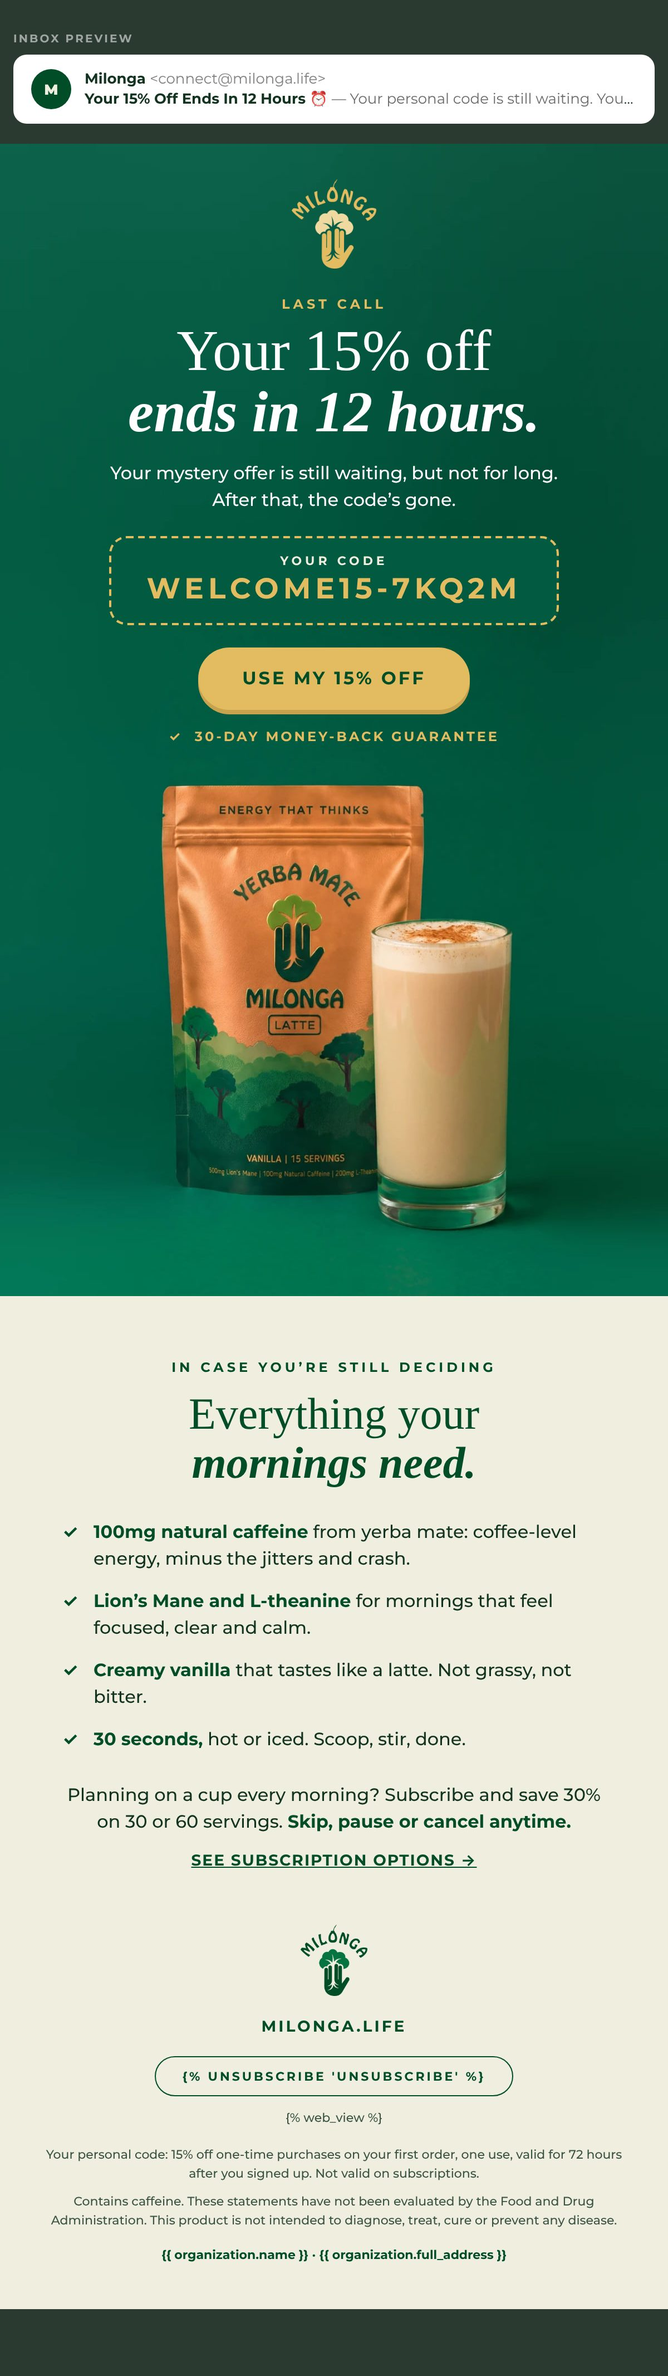
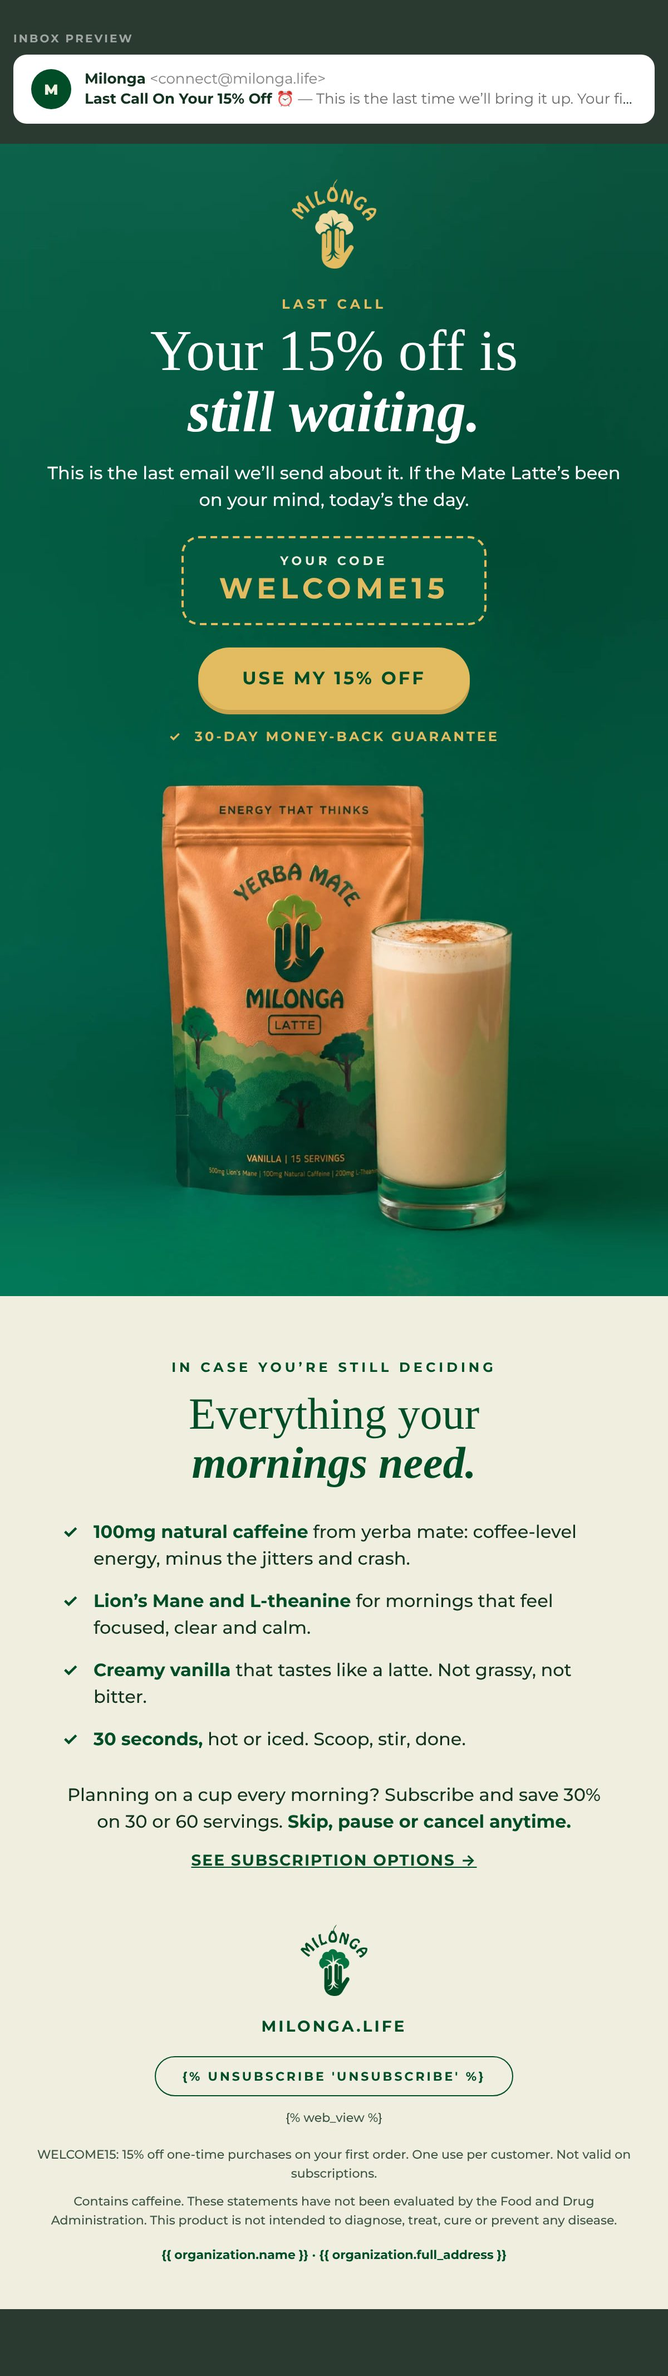
Welcome flow E3: images on Klaviyo's CDN, paste-ready HTML, README
Claude-Session: https://claude.ai/code/session_01NhEtXPnfeCJfN73SqBkUZ5

diff --git a/email-ds/exports/klaviyo/welcome-e3/welcome-e3.html b/email-ds/exports/klaviyo/welcome-e3/welcome-e3.html
@@ -1,6 +1,7 @@
 <!--
-  WELCOME FLOW · EMAIL 3 · DAY 3 · "Your 15% Is Still Waiting ☕"
-  Preview text: Same morning, better cup. Your code still works whenever you’re ready.
+  WELCOME FLOW · EMAIL 3 · "Last Call On Your 15% Off ⏰"
+  Preview text: This is the last time we’ll bring it up. Your first cup is still 15% off.
+  Send: day 3 after signup. WELCOME15 has no end date, so nothing here claims one.
   GENERATED by scripts/make-welcome-e3.mjs. Edit the script, not this file.
   Paste the whole file into one Klaviyo HTML block.
 -->
@@ -14,101 +15,70 @@
   @media only screen and (max-width:480px) {
     .wrap { width:100% !important; }
     .pad { padding-left:24px !important; padding-right:24px !important; }
-    .h-hero { font-size:44px !important; line-height:46px !important; }
-    .h-sec { font-size:34px !important; line-height:38px !important; }
-    .code { font-size:24px !important; letter-spacing:4px !important; }
-    .btn { padding:19px 28px !important; }
-    .cmp { font-size:15px !important; line-height:20px !important; padding:12px 12px !important; }
+    .hero-in { padding:24px 20px 0 !important; }
+    .hero-logo { width:68px !important; height:72px !important; }
+    .h-hero { font-size:46px !important; line-height:48px !important; }
+    .h-sec { font-size:32px !important; line-height:36px !important; }
+    .code { font-size:20px !important; letter-spacing:2px !important; }
+    .code-tag { padding:12px 20px 14px !important; }
+    .btn { padding:18px 26px !important; font-size:15px !important; letter-spacing:1.2px !important; }
   }
   @media (prefers-color-scheme: dark) {
+    .bg-hero { background-color:#025A41 !important; }
     .bg-page { background-color:#F0EFDF !important; }
-    .bg-band { background-color:#004D27 !important; }
   }
 </style>
 <table role="presentation" width="100%" cellpadding="0" cellspacing="0" border="0" bgcolor="#F0EFDF" class="bg-page" style="background-color:#F0EFDF;">
 <tr><td align="center">
 <table role="presentation" class="wrap" width="600" cellpadding="0" cellspacing="0" border="0" style="width:600px;max-width:600px;">
 
-<!-- ── 1 · THE REMINDER (beige) ─────────────────────────────────────── -->
-<tr><td class="pad bg-page" align="center" bgcolor="#F0EFDF" style="background-color:#F0EFDF;padding:36px 40px 0;font-family:'Montserrat','Helvetica Neue',Helvetica,Arial,sans-serif;color:#004D27;">
-<a href="https://milonga.life/?utm_source=klaviyo&amp;utm_medium=email&amp;utm_campaign=welcome_mystery_offer&amp;utm_content=e3_logo" target="_blank"><img src="https://cdn.klaviyomail.com/company/TwvSnK/images/b6a03046-605a-4e87-b22f-a530be1633e3.png" width="57" height="60" alt="Milonga" style="display:block;margin:0 auto;width:57px;height:60px;border:0;"></a>
-<div style="padding-top:28px;font-size:12px;line-height:16px;font-weight:700;letter-spacing:3px;text-transform:uppercase;color:#004D27;">Still thinking about it?</div>
-<div class="h-hero" style="padding-top:10px;font-family:'Times New Roman',Times,Georgia,serif;font-size:56px;line-height:56px;font-weight:400;color:#004D27;">Your 15% is</div>
-<div class="h-hero" style="font-family:'Times New Roman',Times,Georgia,serif;font-size:56px;line-height:60px;font-weight:700;font-style:italic;color:#004D27;">still waiting.</div>
-<div style="padding-top:14px;font-size:16px;line-height:24px;font-weight:500;color:#12331F;">Your code WELCOME15 still takes 15% off your first order. Here&rsquo;s what tomorrow morning could look&nbsp;like.</div>
-</td></tr>
-<tr><td class="pad bg-page" align="center" bgcolor="#F0EFDF" style="background-color:#F0EFDF;padding:28px 24px 0;">
-<a href="https://milonga.life/discount/WELCOME15?redirect=%2Fproducts%2Fthe-original-mate-latte&amp;utm_source=klaviyo&amp;utm_medium=email&amp;utm_campaign=welcome_mystery_offer&amp;utm_content=e3_photo" target="_blank"><img src="https://cdn.klaviyomail.com/company/TwvSnK/images/0dafca6c-f6a4-4ea9-a23e-44c52594e9c5.jpeg" width="552" alt="A pouch of Milonga Mate Latte on a sunny kitchen counter with a hot Mate Latte in a ceramic cup, an iced one in a tall glass and a scoop of the powder." style="display:block;width:100%;max-width:552px;height:auto;border:0;border-radius:24px;"></a>
-</td></tr>
-
-<!-- ── 2 · SAME MORNING, BETTER CUP (forest band) ───────────────────── -->
-<tr><td class="bg-page" bgcolor="#F0EFDF" style="background-color:#F0EFDF;height:56px;line-height:56px;font-size:0;">&nbsp;</td></tr>
-<tr><td class="pad bg-band" align="center" bgcolor="#004D27" style="background-color:#004D27;padding:56px 40px 56px;font-family:'Montserrat','Helvetica Neue',Helvetica,Arial,sans-serif;">
-<div style="font-size:12px;line-height:16px;font-weight:700;letter-spacing:3px;text-transform:uppercase;color:#E3BC62;">Mate Latte vs your usual coffee</div>
-<div class="h-sec" style="padding-top:12px;font-family:'Times New Roman',Times,Georgia,serif;font-size:40px;line-height:44px;font-weight:400;color:#FFFFFF;">Same morning,</div>
-<div class="h-sec" style="font-family:'Times New Roman',Times,Georgia,serif;font-size:40px;line-height:46px;font-weight:700;font-style:italic;color:#FFFFFF;">better cup.</div>
-<div style="padding-top:32px;">
-<table role="presentation" width="100%" cellpadding="0" cellspacing="0" border="0" style="border-collapse:separate;">
-<tr>
-<td width="49%" align="center" style="width:49%;padding-bottom:8px;font-family:'Montserrat','Helvetica Neue',Helvetica,Arial,sans-serif;font-size:13px;line-height:18px;font-weight:700;letter-spacing:2px;text-transform:uppercase;color:#E3BC62;">Mate Latte</td>
-<td width="2%" style="width:2%;">&nbsp;</td>
-<td width="49%" align="center" style="width:49%;padding-bottom:8px;font-family:'Montserrat','Helvetica Neue',Helvetica,Arial,sans-serif;font-size:13px;line-height:18px;font-weight:700;letter-spacing:2px;text-transform:uppercase;color:rgba(255,255,255,.75);">Your usual coffee</td>
-</tr>
-<tr><td colspan="3" style="padding:0px 0 8px;font-family:'Montserrat','Helvetica Neue',Helvetica,Arial,sans-serif;font-size:12px;line-height:16px;font-weight:700;letter-spacing:3px;text-transform:uppercase;color:#E3BC62;">Energy</td></tr>
-<tr>
-<td class="cmp" width="49%" valign="middle" bgcolor="#E3BC62" style="width:49%;background-color:#E3BC62;border-radius:16px;padding:14px 16px;font-family:'Montserrat','Helvetica Neue',Helvetica,Arial,sans-serif;font-size:16px;line-height:22px;font-weight:700;color:#004D27;">100mg natural caffeine, clean and steady</td>
-<td width="2%" style="width:2%;font-size:0;line-height:0;">&nbsp;</td>
-<td class="cmp" width="49%" valign="middle" style="width:49%;border:1.5px solid rgba(255,255,255,.45);border-radius:16px;padding:14px 16px;font-family:'Montserrat','Helvetica Neue',Helvetica,Arial,sans-serif;font-size:16px;line-height:22px;font-weight:500;color:#FFFFFF;">A spike, then the 2pm crash</td>
-</tr>
-<tr><td colspan="3" style="padding:20px 0 8px;font-family:'Montserrat','Helvetica Neue',Helvetica,Arial,sans-serif;font-size:12px;line-height:16px;font-weight:700;letter-spacing:3px;text-transform:uppercase;color:#E3BC62;">Jitters</td></tr>
-<tr>
-<td class="cmp" width="49%" valign="middle" bgcolor="#E3BC62" style="width:49%;background-color:#E3BC62;border-radius:16px;padding:14px 16px;font-family:'Montserrat','Helvetica Neue',Helvetica,Arial,sans-serif;font-size:16px;line-height:22px;font-weight:700;color:#004D27;">None. L-theanine keeps it calm</td>
-<td width="2%" style="width:2%;font-size:0;line-height:0;">&nbsp;</td>
-<td class="cmp" width="49%" valign="middle" style="width:49%;border:1.5px solid rgba(255,255,255,.45);border-radius:16px;padding:14px 16px;font-family:'Montserrat','Helvetica Neue',Helvetica,Arial,sans-serif;font-size:16px;line-height:22px;font-weight:500;color:#FFFFFF;">Often</td>
-</tr>
-<tr><td colspan="3" style="padding:20px 0 8px;font-family:'Montserrat','Helvetica Neue',Helvetica,Arial,sans-serif;font-size:12px;line-height:16px;font-weight:700;letter-spacing:3px;text-transform:uppercase;color:#E3BC62;">Focus</td></tr>
-<tr>
-<td class="cmp" width="49%" valign="middle" bgcolor="#E3BC62" style="width:49%;background-color:#E3BC62;border-radius:16px;padding:14px 16px;font-family:'Montserrat','Helvetica Neue',Helvetica,Arial,sans-serif;font-size:16px;line-height:22px;font-weight:700;color:#004D27;">500mg Lion&rsquo;s Mane</td>
-<td width="2%" style="width:2%;font-size:0;line-height:0;">&nbsp;</td>
-<td class="cmp" width="49%" valign="middle" style="width:49%;border:1.5px solid rgba(255,255,255,.45);border-radius:16px;padding:14px 16px;font-family:'Montserrat','Helvetica Neue',Helvetica,Arial,sans-serif;font-size:16px;line-height:22px;font-weight:500;color:#FFFFFF;">&mdash;</td>
-</tr>
-<tr><td colspan="3" style="padding:20px 0 8px;font-family:'Montserrat','Helvetica Neue',Helvetica,Arial,sans-serif;font-size:12px;line-height:16px;font-weight:700;letter-spacing:3px;text-transform:uppercase;color:#E3BC62;">Acidity</td></tr>
-<tr>
-<td class="cmp" width="49%" valign="middle" bgcolor="#E3BC62" style="width:49%;background-color:#E3BC62;border-radius:16px;padding:14px 16px;font-family:'Montserrat','Helvetica Neue',Helvetica,Arial,sans-serif;font-size:16px;line-height:22px;font-weight:700;color:#004D27;">None</td>
-<td width="2%" style="width:2%;font-size:0;line-height:0;">&nbsp;</td>
-<td class="cmp" width="49%" valign="middle" style="width:49%;border:1.5px solid rgba(255,255,255,.45);border-radius:16px;padding:14px 16px;font-family:'Montserrat','Helvetica Neue',Helvetica,Arial,sans-serif;font-size:16px;line-height:22px;font-weight:500;color:#FFFFFF;">Acidic</td>
-</tr>
-<tr><td colspan="3" style="padding:20px 0 8px;font-family:'Montserrat','Helvetica Neue',Helvetica,Arial,sans-serif;font-size:12px;line-height:16px;font-weight:700;letter-spacing:3px;text-transform:uppercase;color:#E3BC62;">Taste</td></tr>
-<tr>
-<td class="cmp" width="49%" valign="middle" bgcolor="#E3BC62" style="width:49%;background-color:#E3BC62;border-radius:16px;padding:14px 16px;font-family:'Montserrat','Helvetica Neue',Helvetica,Arial,sans-serif;font-size:16px;line-height:22px;font-weight:700;color:#004D27;">A creamy vanilla latte</td>
-<td width="2%" style="width:2%;font-size:0;line-height:0;">&nbsp;</td>
-<td class="cmp" width="49%" valign="middle" style="width:49%;border:1.5px solid rgba(255,255,255,.45);border-radius:16px;padding:14px 16px;font-family:'Montserrat','Helvetica Neue',Helvetica,Arial,sans-serif;font-size:16px;line-height:22px;font-weight:500;color:#FFFFFF;">Bitter</td>
-</tr>
-</table>
-</div>
-</td></tr>
-
-<!-- ── 3 · THE OFFER, ONE BUTTON (beige) ────────────────────────────── -->
-<tr><td class="pad bg-page" align="center" bgcolor="#F0EFDF" style="background-color:#F0EFDF;padding:56px 40px 0;font-family:'Montserrat','Helvetica Neue',Helvetica,Arial,sans-serif;color:#004D27;">
-<div style="font-size:12px;line-height:16px;font-weight:700;letter-spacing:3px;text-transform:uppercase;color:#004D27;">Ready when you are</div>
-<div class="h-sec" style="padding-top:12px;font-family:'Times New Roman',Times,Georgia,serif;font-size:40px;line-height:44px;font-weight:400;color:#004D27;">Your new morning ritual</div>
-<div class="h-sec" style="font-family:'Times New Roman',Times,Georgia,serif;font-size:40px;line-height:46px;font-weight:700;font-style:italic;color:#004D27;">is one click away.</div>
-<div style="padding:16px 0 24px;font-size:16px;line-height:24px;font-weight:500;color:#12331F;">Creamy vanilla, 100mg of natural caffeine, ready in 30 seconds, hot or&nbsp;iced.</div>
+<!-- ── 1 · LAST CALL (the studio photo; copy in the green above the products) -->
+<tr><td class="bg-hero" align="center" valign="top" height="1034" background="https://cdn.klaviyomail.com/company/TwvSnK/images/4a80ff4d-766b-46f4-afca-783873b66d9d.jpeg" bgcolor="#025A41" style="height:1034px;background-color:#025A41;background-image:url('https://cdn.klaviyomail.com/company/TwvSnK/images/4a80ff4d-766b-46f4-afca-783873b66d9d.jpeg');background-size:cover;background-position:center top;background-repeat:no-repeat;padding:0;">
+<!--[if gte mso 9]><v:rect xmlns:v="urn:schemas-microsoft-com:vml" fill="true" stroke="false" style="width:600px;height:1034px;"><v:fill type="frame" src="https://cdn.klaviyomail.com/company/TwvSnK/images/4a80ff4d-766b-46f4-afca-783873b66d9d.jpeg" color="#025A41" /><v:textbox inset="0,0,0,0"><![endif]-->
+<div class="hero-in" style="padding:32px 40px 0;font-family:'Montserrat','Helvetica Neue',Helvetica,Arial,sans-serif;text-align:center;">
+<a href="https://milonga.life/?utm_source=klaviyo&amp;utm_medium=email&amp;utm_campaign=welcome_mystery_offer&amp;utm_content=e3_logo" target="_blank"><img class="hero-logo" src="https://cdn.klaviyomail.com/company/TwvSnK/images/354b4f7b-4dc1-4f2e-bcd3-f48afc9dd310.png" width="76" height="80" alt="Milonga" style="display:block;margin:0 auto;width:76px;height:80px;border:0;"></a>
+<div style="padding-top:24px;font-size:12px;line-height:16px;font-weight:700;letter-spacing:3px;text-transform:uppercase;color:#E3BC62;">Last call</div>
+<div class="h-hero" style="padding-top:8px;font-family:'Times New Roman',Times,Georgia,serif;font-size:52px;line-height:54px;font-weight:400;color:#FFFFFF;">Your 15% off is</div>
+<div class="h-hero" style="font-family:'Times New Roman',Times,Georgia,serif;font-size:52px;line-height:56px;font-weight:700;font-style:italic;color:#FFFFFF;">still waiting.</div>
+<div style="padding:14px 0 20px;font-size:16px;line-height:24px;font-weight:500;color:#FFFFFF;">This is the last email we&rsquo;ll send about it. If the Mate Latte&rsquo;s been on your mind, <span style="white-space:nowrap;">today&rsquo;s the day.</span></div>
 <table role="presentation" cellpadding="0" cellspacing="0" border="0" align="center" style="margin:0 auto;border-collapse:separate;"><tr>
-<td align="center" bgcolor="#FBF1DC" style="background-color:#FBF1DC;border:2px dashed #004D27;border-radius:16px;padding:12px 36px 14px;font-family:'Montserrat','Helvetica Neue',Helvetica,Arial,sans-serif;">
-<div style="font-size:11px;line-height:16px;font-weight:700;letter-spacing:3px;text-transform:uppercase;color:#3B5344;">Your code</div>
-<div class="code" style="font-size:30px;line-height:36px;font-weight:700;letter-spacing:6px;color:#004D27;">WELCOME15</div>
+<td class="code-tag" align="center" bgcolor="#025A41" style="background-color:#025A41;border:2px dashed #E3BC62;border-radius:16px;padding:12px 32px 14px;font-family:'Montserrat','Helvetica Neue',Helvetica,Arial,sans-serif;">
+<div style="font-size:11px;line-height:16px;font-weight:700;letter-spacing:3px;text-transform:uppercase;color:#F0EFDF;">Your code</div>
+<div class="code" style="font-size:26px;line-height:34px;font-weight:700;letter-spacing:4px;white-space:nowrap;color:#E3BC62;">WELCOME15</div>
 </td></tr></table>
-<div style="padding-top:24px;"><!--[if mso]>
-<v:roundrect xmlns:v="urn:schemas-microsoft-com:vml" xmlns:w="urn:schemas-microsoft-com:office:word" href="https://milonga.life/discount/WELCOME15?redirect=%2Fproducts%2Fthe-original-mate-latte&amp;utm_source=klaviyo&amp;utm_medium=email&amp;utm_campaign=welcome_mystery_offer&amp;utm_content=e3_button" style="height:56px;v-text-anchor:middle;width:300px;" arcsize="50%" stroke="f" fillcolor="#004D27"><w:anchorlock/><center style="color:#F0EFDF;font-family:Arial,sans-serif;font-size:16px;font-weight:bold;letter-spacing:2px;">Claim my 15% off</center></v:roundrect>
-<![endif]--><!--[if !mso]><!-- --><a href="https://milonga.life/discount/WELCOME15?redirect=%2Fproducts%2Fthe-original-mate-latte&amp;utm_source=klaviyo&amp;utm_medium=email&amp;utm_campaign=welcome_mystery_offer&amp;utm_content=e3_button" target="_blank" class="btn" style="display:inline-block;background-color:#004D27;border-radius:999px;padding:20px 40px;font-family:'Montserrat','Helvetica Neue',Helvetica,Arial,sans-serif;font-size:16px;line-height:16px;font-weight:700;letter-spacing:2px;text-transform:uppercase;color:#F0EFDF;text-decoration:none;box-shadow:0 4px 0 #00351B;">Claim my 15% off</a><!--<![endif]--></div>
-<div style="padding-top:16px;font-size:12px;line-height:16px;font-weight:700;letter-spacing:2px;text-transform:uppercase;color:#004D27;">&#10003;&nbsp; 30-day money-back guarantee</div>
-<div style="padding-top:28px;font-size:15px;line-height:22px;font-weight:500;color:#12331F;">Planning on a cup every day? Subscribe to 30 or 60 servings and <strong style="font-weight:700;color:#004D27;">save 30%</strong>, with a <strong style="font-weight:700;color:#004D27;">free milk frother</strong> in your first box. Skip, pause or cancel&nbsp;anytime.</div>
-<div style="padding-top:10px;font-size:13px;line-height:18px;font-weight:700;letter-spacing:1px;text-transform:uppercase;"><a href="https://milonga.life/products/the-original-mate-latte?utm_source=klaviyo&amp;utm_medium=email&amp;utm_campaign=welcome_mystery_offer&amp;utm_content=e3_subscribe_link" target="_blank" style="color:#004D27;text-decoration:underline;">See subscription options →</a></div>
+<div style="padding-top:20px;"><!--[if mso]>
+<v:roundrect xmlns:v="urn:schemas-microsoft-com:vml" xmlns:w="urn:schemas-microsoft-com:office:word" href="https://milonga.life/discount/WELCOME15?redirect=%2Fproducts%2Fthe-original-mate-latte&amp;utm_source=klaviyo&amp;utm_medium=email&amp;utm_campaign=welcome_mystery_offer&amp;utm_content=e3_hero_button" style="height:56px;v-text-anchor:middle;width:280px;" arcsize="50%" stroke="f" fillcolor="#E3BC62"><w:anchorlock/><center style="color:#004D27;font-family:Arial,sans-serif;font-size:16px;font-weight:bold;letter-spacing:2px;">Use my 15% off</center></v:roundrect>
+<![endif]--><!--[if !mso]><!-- --><a href="https://milonga.life/discount/WELCOME15?redirect=%2Fproducts%2Fthe-original-mate-latte&amp;utm_source=klaviyo&amp;utm_medium=email&amp;utm_campaign=welcome_mystery_offer&amp;utm_content=e3_hero_button" target="_blank" class="btn" style="display:inline-block;background-color:#E3BC62;border-radius:999px;padding:20px 40px;font-family:'Montserrat','Helvetica Neue',Helvetica,Arial,sans-serif;font-size:16px;line-height:16px;font-weight:700;letter-spacing:2px;text-transform:uppercase;white-space:nowrap;color:#004D27;text-decoration:none;box-shadow:0 4px 0 #C9A24E;">Use my 15% off</a><!--<![endif]--></div>
+<div style="padding-top:16px;font-size:12px;line-height:16px;font-weight:700;letter-spacing:2px;text-transform:uppercase;color:#E3BC62;">&#10003;&nbsp; 30-day money-back guarantee</div>
+</div>
+<!--[if gte mso 9]></v:textbox></v:rect><![endif]-->
+</td></tr>
+
+<!-- ── 2 · STILL DECIDING? (beige) ─────────────────────────────────── -->
+<tr><td class="pad bg-page" align="center" bgcolor="#F0EFDF" style="background-color:#F0EFDF;padding:56px 48px 0;font-family:'Montserrat','Helvetica Neue',Helvetica,Arial,sans-serif;">
+<div style="font-size:12px;line-height:16px;font-weight:700;letter-spacing:3px;text-transform:uppercase;color:#004D27;">In case you&rsquo;re still deciding</div>
+<div class="h-sec" style="padding-top:12px;font-family:'Times New Roman',Times,Georgia,serif;font-size:40px;line-height:44px;font-weight:400;color:#004D27;">Everything your</div>
+<div class="h-sec" style="font-family:'Times New Roman',Times,Georgia,serif;font-size:40px;line-height:44px;font-weight:700;font-style:italic;color:#004D27;">mornings need.</div>
+</td></tr>
+<tr><td class="pad bg-page" bgcolor="#F0EFDF" style="background-color:#F0EFDF;padding:28px 56px 0;">
+<table role="presentation" width="100%" cellpadding="0" cellspacing="0" border="0">
+<tr><td valign="top" width="28" style="width:28px;padding:0 0 14px;font-family:'Montserrat','Helvetica Neue',Helvetica,Arial,sans-serif;font-size:16px;line-height:24px;font-weight:700;color:#004D27;">&#10003;</td>
+<td valign="top" style="padding:0 0 14px;font-family:'Montserrat','Helvetica Neue',Helvetica,Arial,sans-serif;font-size:16px;line-height:24px;font-weight:500;color:#12331F;"><strong style="font-weight:700;color:#004D27;">100mg natural caffeine</strong> from yerba mate: coffee-level energy, minus the jitters and crash.</td></tr>
+<tr><td valign="top" width="28" style="width:28px;padding:0 0 14px;font-family:'Montserrat','Helvetica Neue',Helvetica,Arial,sans-serif;font-size:16px;line-height:24px;font-weight:700;color:#004D27;">&#10003;</td>
+<td valign="top" style="padding:0 0 14px;font-family:'Montserrat','Helvetica Neue',Helvetica,Arial,sans-serif;font-size:16px;line-height:24px;font-weight:500;color:#12331F;"><strong style="font-weight:700;color:#004D27;">Lion&rsquo;s Mane and L-theanine</strong> for mornings that feel focused, clear and calm.</td></tr>
+<tr><td valign="top" width="28" style="width:28px;padding:0 0 14px;font-family:'Montserrat','Helvetica Neue',Helvetica,Arial,sans-serif;font-size:16px;line-height:24px;font-weight:700;color:#004D27;">&#10003;</td>
+<td valign="top" style="padding:0 0 14px;font-family:'Montserrat','Helvetica Neue',Helvetica,Arial,sans-serif;font-size:16px;line-height:24px;font-weight:500;color:#12331F;"><strong style="font-weight:700;color:#004D27;">Creamy vanilla</strong> that tastes like a latte. Not grassy, not bitter.</td></tr>
+<tr><td valign="top" width="28" style="width:28px;padding:0 0 14px;font-family:'Montserrat','Helvetica Neue',Helvetica,Arial,sans-serif;font-size:16px;line-height:24px;font-weight:700;color:#004D27;">&#10003;</td>
+<td valign="top" style="padding:0 0 14px;font-family:'Montserrat','Helvetica Neue',Helvetica,Arial,sans-serif;font-size:16px;line-height:24px;font-weight:500;color:#12331F;"><strong style="font-weight:700;color:#004D27;">30 seconds,</strong> hot or iced. Scoop, stir, done.</td></tr>
+</table>
+</td></tr>
+<tr><td class="pad bg-page" align="center" bgcolor="#F0EFDF" style="background-color:#F0EFDF;padding:12px 48px 0;font-family:'Montserrat','Helvetica Neue',Helvetica,Arial,sans-serif;">
+<div style="font-size:16px;line-height:24px;font-weight:500;color:#12331F;">Planning on a cup every morning? Subscribe and save 30% on 30 or 60 servings. <strong style="font-weight:700;color:#004D27;">Skip, pause or cancel&nbsp;anytime.</strong></div>
+<div style="padding-top:12px;font-size:14px;line-height:20px;font-weight:700;letter-spacing:1px;text-transform:uppercase;"><a href="https://milonga.life/products/the-original-mate-latte?utm_source=klaviyo&amp;utm_medium=email&amp;utm_campaign=welcome_mystery_offer&amp;utm_content=e3_subscribe_link" target="_blank" style="color:#004D27;text-decoration:underline;">See subscription options →</a></div>
 </td></tr>
 
 <!-- ── FOOTER ─────────────────────────────────────────────────────── -->
-<tr><td class="bg-page" align="center" bgcolor="#F0EFDF" style="background-color:#F0EFDF;padding:56px 30px 40px;font-family:'Montserrat','Helvetica Neue',Helvetica,Arial,sans-serif;color:#004D27;">
+<tr><td class="bg-page" align="center" bgcolor="#F0EFDF" style="background-color:#F0EFDF;padding:48px 30px 40px;font-family:'Montserrat','Helvetica Neue',Helvetica,Arial,sans-serif;color:#004D27;">
 <a href="https://milonga.life/?utm_source=klaviyo&amp;utm_medium=email&amp;utm_campaign=welcome_mystery_offer&amp;utm_content=e3_logo" target="_blank"><img src="https://cdn.klaviyomail.com/company/TwvSnK/images/0e781634-6907-42f6-b101-3c2c15371a99.png" width="61" height="64" alt="Milonga" style="display:block;margin:0 auto;height:64px;width:auto;border:0;"></a>
 <div style="padding-top:18px;font-size:14px;font-weight:700;letter-spacing:2px;text-transform:uppercase;"><a href="https://milonga.life/?utm_source=klaviyo&amp;utm_medium=email&amp;utm_campaign=welcome_mystery_offer&amp;utm_content=e3_logo" target="_blank" style="color:#004D27;text-decoration:none;">milonga.life</a></div>
 <table role="presentation" cellpadding="0" cellspacing="0" border="0" align="center" style="margin:18px auto 0;border-collapse:separate;"><tr><td class="unsub-pill" align="center" style="border:1.5px solid #004D27;border-radius:999px;padding:10px 24px;font-family:'Montserrat','Helvetica Neue',Helvetica,Arial,sans-serif;font-size:11px;font-weight:700;letter-spacing:2px;text-transform:uppercase;color:#004D27;">{% unsubscribe 'Unsubscribe' %}</td></tr></table>
